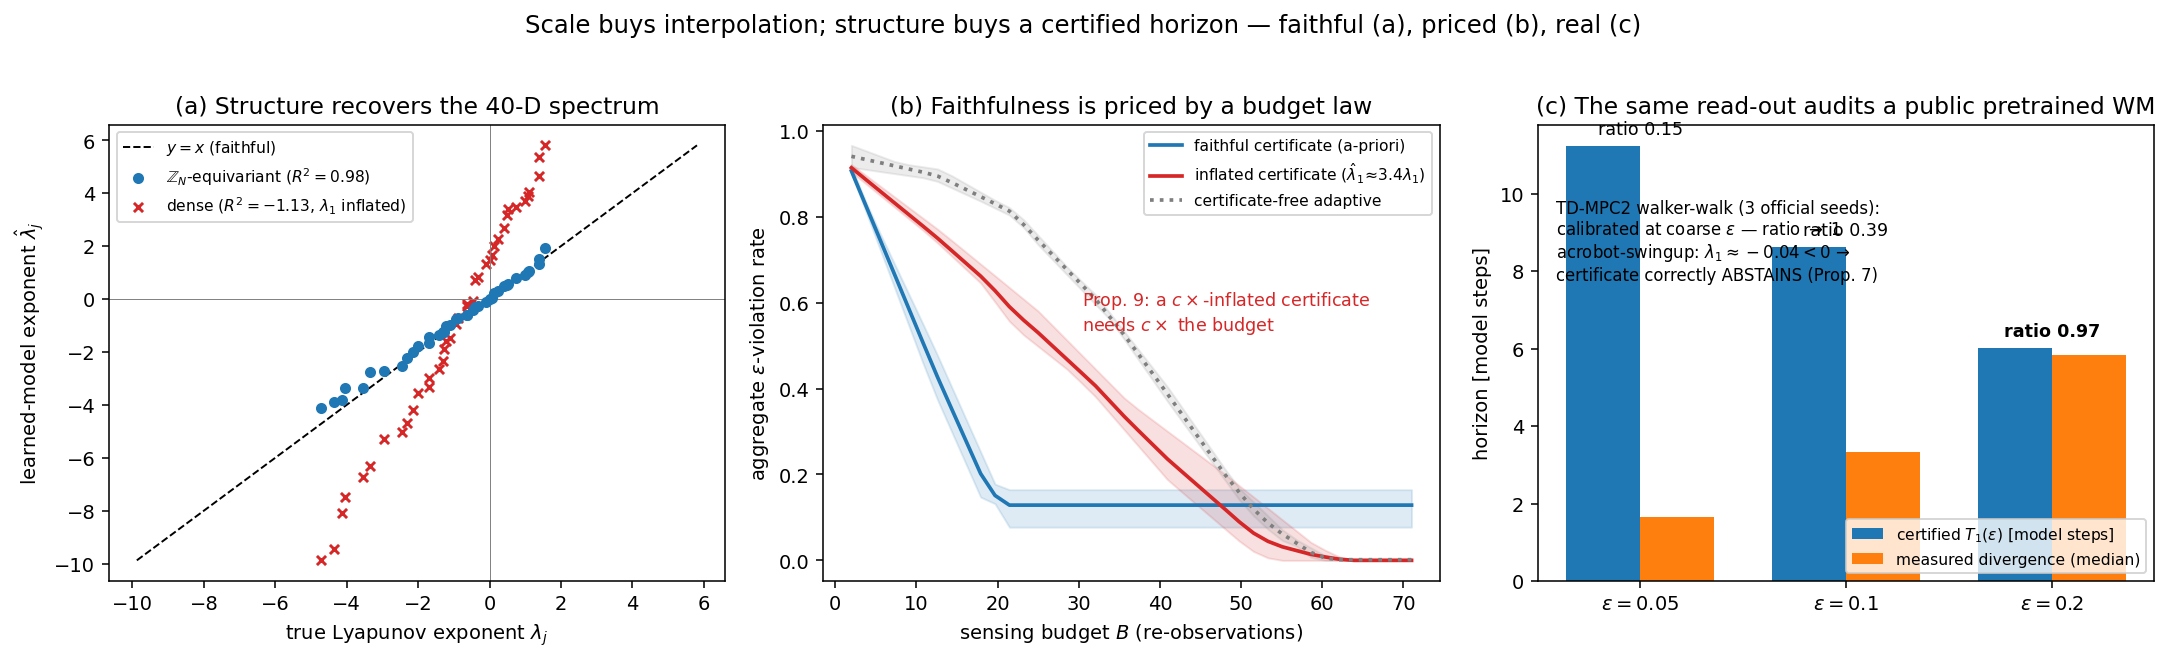
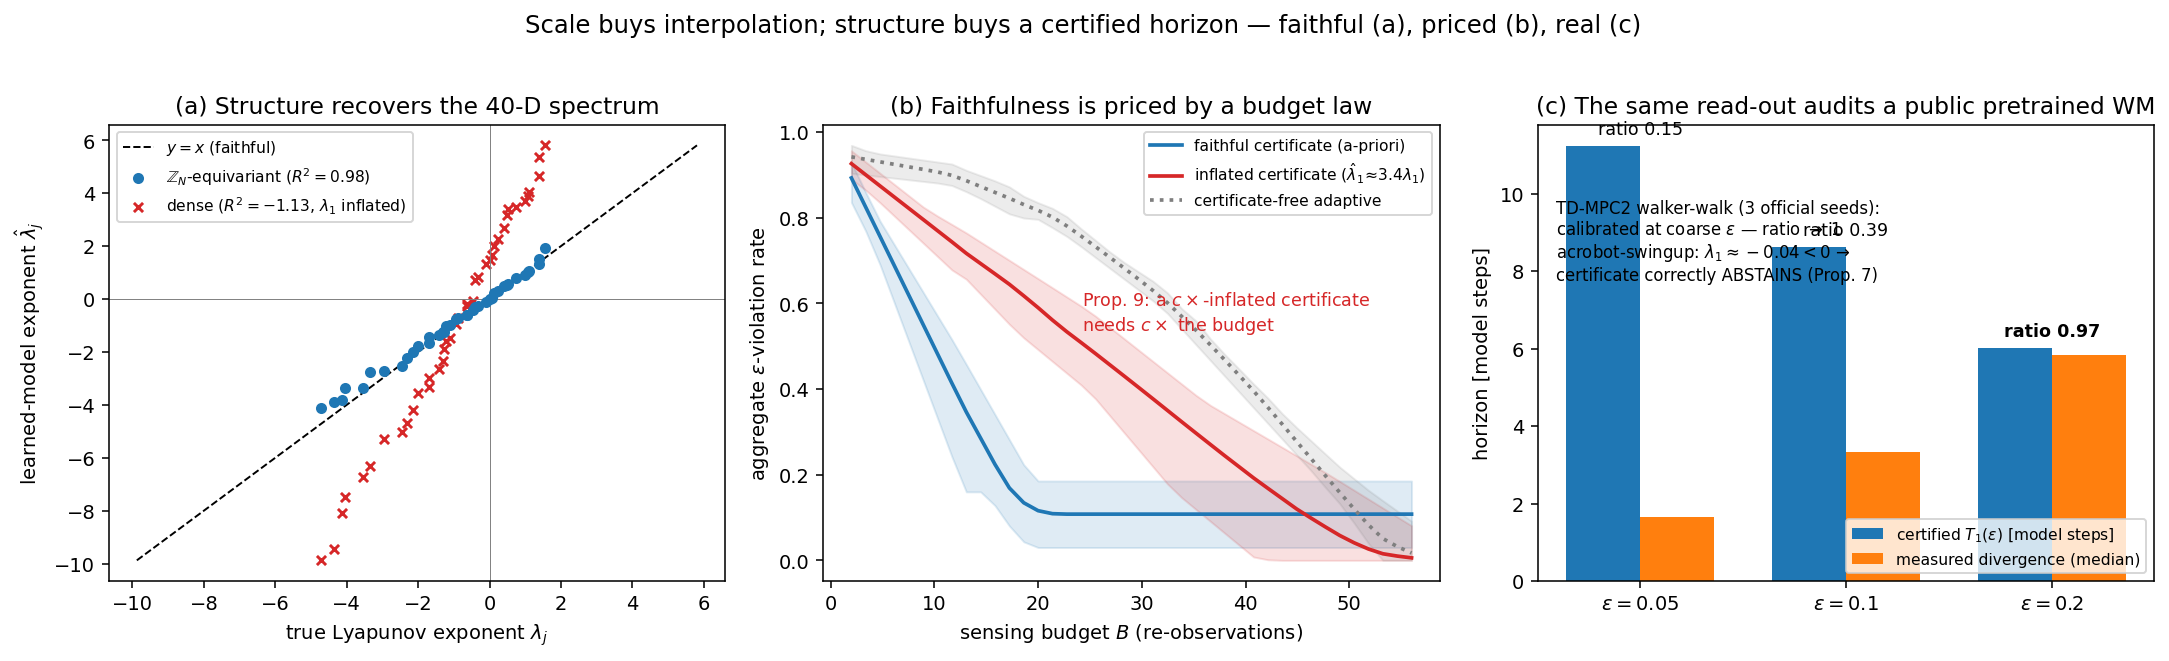
Figure refresh: step83 crossover replotted at n=10/cell; hero panel (b) bands now min-max over 20 seeds; captions synced

diff --git a/scripts/replot_step83_n10.py b/scripts/replot_step83_n10.py
@@ -1,0 +1,45 @@
+"""Replot the step83 crossover figure from the n=10 merged artifact (same layout as the original)."""
+import json
+from pathlib import Path
+
+import matplotlib
+matplotlib.use("Agg")
+import matplotlib.pyplot as plt
+import numpy as np
+
+ROOT = Path(__file__).resolve().parent.parent
+FIG = ROOT / "papers/figures"
+d = json.loads((FIG / "step83_n10_merged.json").read_text())
+COLORS = {"conv": "#1f77b4", "mlp": "#d62728", "gru": "#2ca02c"}
+LABELS = {"conv": "$\\mathbb{Z}_N$-equivariant conv", "mlp": "dense MLP", "gru": "GRU-BPTT (recurrent)"}
+MARKERS = {"conv": "o", "mlp": "x", "gru": "s"}
+Ns = sorted(int(N) for N in d["cells"])
+fig, (ax, ax2) = plt.subplots(1, 2, figsize=(11.5, 4.6))
+for a in ("conv", "mlp", "gru"):
+    ys = [np.mean([r["spectrum_r2"] for r in d["cells"][str(N)][a]]) for N in Ns]
+    es = [np.std([r["spectrum_r2"] for r in d["cells"][str(N)][a]]) for N in Ns]
+    ax.errorbar(Ns, ys, yerr=es, marker=MARKERS[a], color=COLORS[a], lw=2, ms=7, capsize=3, label=LABELS[a])
+ax.axhline(0.0, color="gray", lw=0.8, ls=":")
+ax.axhline(0.8, color="#1f77b4", lw=0.8, ls="--", alpha=0.5)
+ax.text(min(Ns), 0.815, "$R^2=0.8$ (recovery)", fontsize=7, color="#1f77b4", alpha=0.8)
+ax.text(min(Ns), 0.02, "$R^2=0$ (mean-predictor)", fontsize=7, color="gray")
+ax.set_xlabel("configuration dimension $N$ (Lorenz-96)")
+ax.set_ylabel("full-spectrum $R^2$ (recovered vs true)")
+ax.set_title("(a) $R^2(N)$ crossover: structure vs scale \\& recurrence ($n{=}10$ seeds/cell)")
+ax.set_xticks(Ns); ax.set_ylim(-3.0, 1.08)
+ax.legend(fontsize=8, loc="lower left"); ax.grid(alpha=0.25)
+true_npos = []
+for N in Ns:
+    arrs = [np.array(v) for v in d["true_spectrum"][str(N)].values()]
+    true_npos.append(float(np.mean([int((x > 0).sum()) for x in arrs])) if arrs else np.nan)
+ax2.plot(Ns, true_npos, "k-", marker="D", lw=2, ms=6, label="true Lorenz-96")
+for a in ("conv", "mlp", "gru"):
+    npos = [np.mean([r["n_positive"] for r in d["cells"][str(N)][a]]) for N in Ns]
+    ax2.plot(Ns, npos, marker=MARKERS[a], color=COLORS[a], lw=1.6, ms=6, alpha=0.9, label=LABELS[a])
+ax2.set_xlabel("configuration dimension $N$")
+ax2.set_ylabel("# positive Lyapunov exponents recovered")
+ax2.set_title("(b) Positive-exponent count vs truth")
+ax2.set_xticks(Ns); ax2.legend(fontsize=7.5, loc="upper left"); ax2.grid(alpha=0.25)
+fig.tight_layout()
+fig.savefig(FIG / "step83_rsquared_crossover.png", dpi=180)
+print("replotted at n=10")

diff --git a/experiments/fig_hero.py b/experiments/fig_hero.py
@@ -20,6 +20,8 @@ FIG = Path(__file__).resolve().parent.parent / "papers" / "figures"
 
 s74 = json.loads((FIG / "step74_lorenz96_spectrum.json").read_text())
 s85 = json.loads((FIG / "step85_phase1_frontier.json").read_text())
+for _f in sorted(FIG.glob("step85_phase1_frontier_seed*.json")):          # 2026-06-12: n=20 thickening
+    s85["per_seed"].update(json.loads(_f.read_text())["per_seed"])
 s89 = json.loads((FIG / "step89_pretrained_audit.json").read_text())
 
 fig, (a, b, c) = plt.subplots(1, 3, figsize=(15.6, 4.6))

diff --git a/papers/paper2_certified_world_models.md b/papers/paper2_certified_world_models.md
@@ -1203,7 +1203,7 @@ unstructured model of equal data cannot.
 
 **This is a structural phase transition, not a single-$N$ artifact (Step 83).** Sweeping $N\in\{12,20,28,40\}$ under the identical recipe, the $\mathbb{Z}_N$-conv holds full-spectrum $R^2>0.94$ throughout (at $N{=}40$: median $+0.992$, range $[+0.98,+1.00]$), while the dense MLP and the GRU are *statistically tied with it through $N{=}28$* and then **collapse at $N{=}40$** (2026-06-12 thickening to $n{=}10$/cell: MLP median $-1.38$, range $[-2.76,-0.42]$; GRU median $-0.29$, $[-0.35,-0.05]$ — **$20/20$ dense-family fits below zero, zero overlap with the conv population**; the GRU is already intermittent at $N{=}20$–$28$, range dipping to $-0.19$): the unstructured models begin hallucinating spurious positive exponents (GRU $\sim\!31$ vs. the true $\sim\!14$) exactly where the dimension outruns their unstructured Jacobian. The single-$N{=}40$ separation is the *endpoint* of a clean structural phase transition.
 
-![Experiment 18 — the structure-vs-scale-and-recurrence phase transition (Step 83). Full-spectrum Lyapunov $R^2$ vs. system dimension $N$ for the three architectures under the identical recipe ($3$ seeds/cell shown; the 2026-06-12 $n{=}10$ thickening confirms — at $N{=}40$ conv $[+0.98,+1.00]$ vs MLP $[-2.76,-0.42]$, zero overlap): the $\mathbb{Z}_N$-equivariant conv (blue) holds $R^2>0.97$ across $N$, while the dense MLP (red) and GRU-BPTT (green) are tied with it through $N{=}28$ and collapse at $N{=}40$. The single-$N$ separation is the endpoint of a structural phase transition.](figures/step83_rsquared_crossover.png)
+![Experiment 18 — the structure-vs-scale-and-recurrence phase transition (Step 83). Full-spectrum Lyapunov $R^2$ vs. system dimension $N$ for the three architectures under the identical recipe ($n{=}10$ seeds/cell; at $N{=}40$ conv $[+0.98,+1.00]$ vs MLP $[-2.76,-0.42]$ — zero overlap): the $\mathbb{Z}_N$-equivariant conv (blue) holds $R^2>0.97$ across $N$, while the dense MLP (red) and GRU-BPTT (green) are tied with it through $N{=}28$ and collapse at $N{=}40$. The single-$N$ separation is the endpoint of a structural phase transition.](figures/step83_rsquared_crossover.png)
 
 ![Experiment 18 (the high-dimensional spectral horizon law, $N{=}40$ Lorenz-96, seed 0; the other seeds match). **(a)** Recovered vs. true Lyapunov exponent for all $40$ channels: the $\mathbb{Z}_N$-equivariant cyclic-conv (blue) lies on $y=x$ ($R^2{=}0.98$); the dense MLP (red ×) is scattered far off ($R^2{=}-1.1$), over-amplifying the spectrum. **(b)** Per-channel certified horizon $T_j(\epsilon{=}0.01)=\log(1/\epsilon)/\lambda_j$ across the positive exponents: the equivariant model (blue) tracks the truth (black) — short horizons ($\sim$few steps) for the most chaotic channels, long ($\sim\!350$ steps) for the weakly chaotic ones. Structure recovers the spectral stratification a dense model of equal data cannot.](figures/step74_lorenz96_spectrum.png)
 